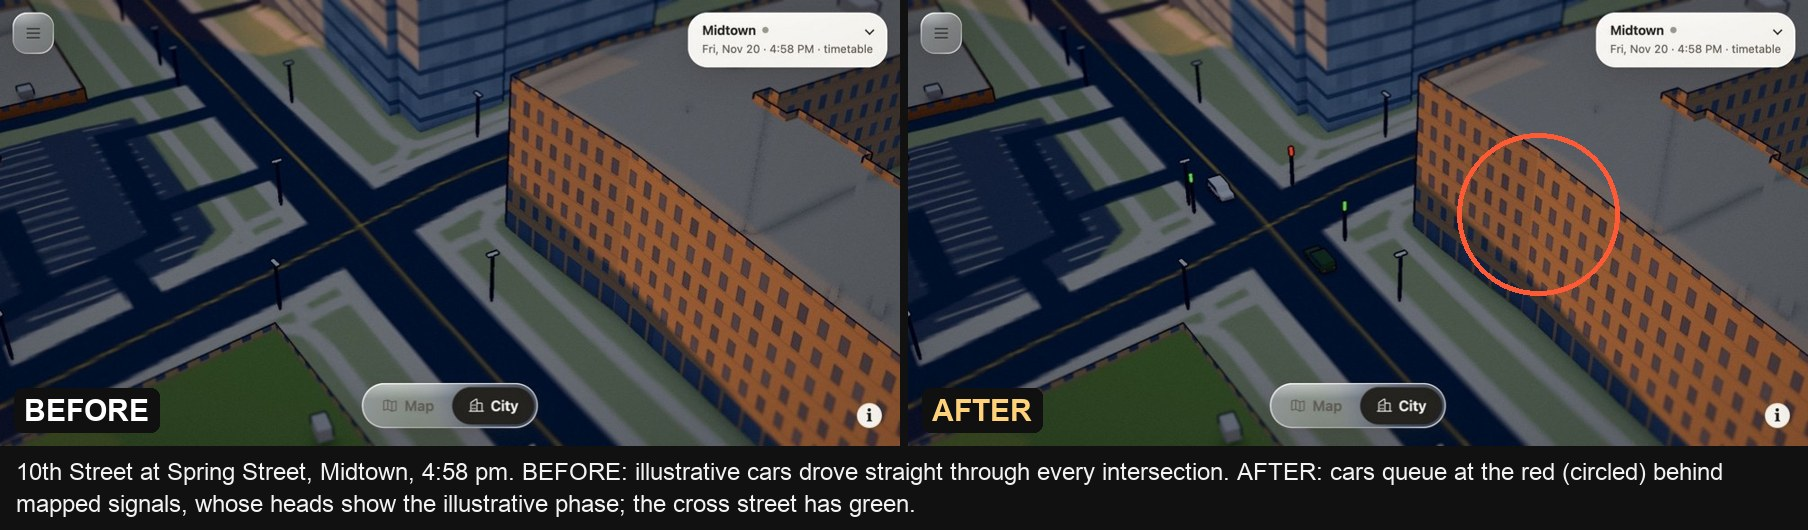
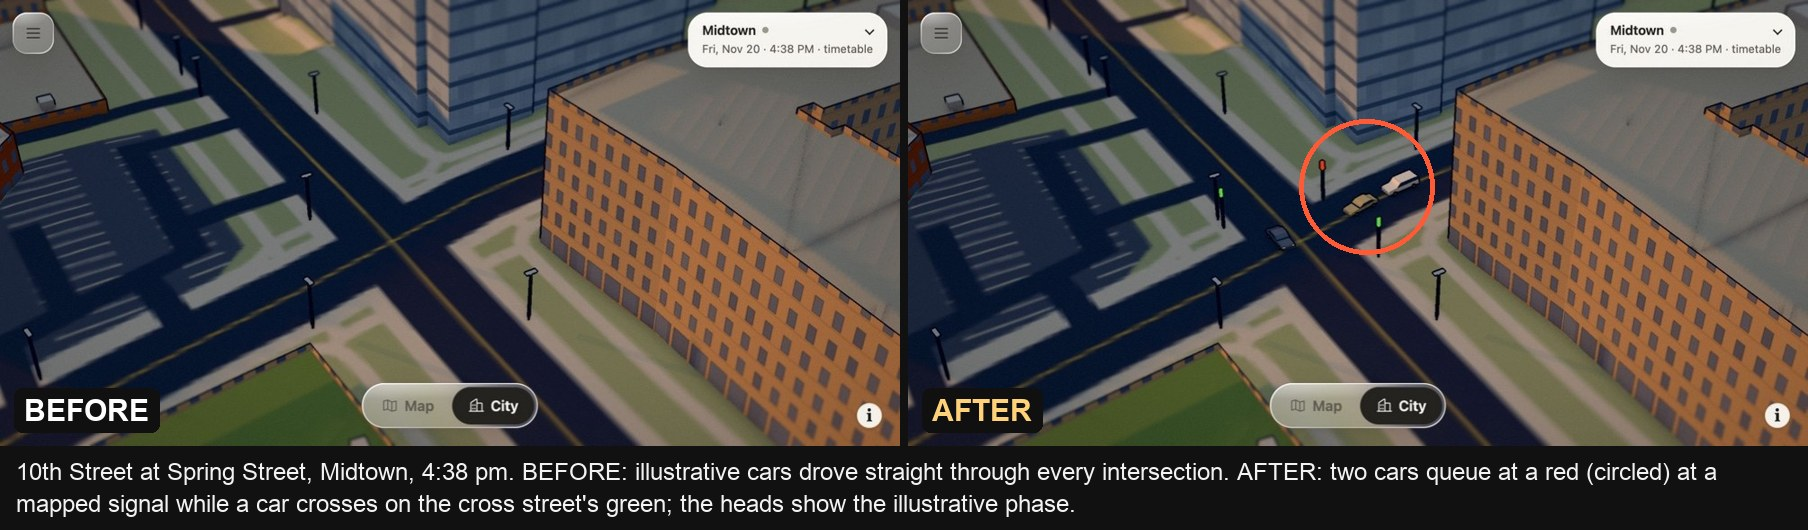
Recapture the 10th Street queue comparison

diff --git a/docs/traffic-signals.md b/docs/traffic-signals.md
@@ -17,4 +17,4 @@ Downtown's and Midtown's illustrative arterial cars now stop at mapped traffic s
 
 Turns at intersections come next; HPMS has no turning counts, so turn shares will be illustrative. Requires a web rebuild only.
 
-[10th Street queue, before and after](log/ui/traffic-signals/compare-10th-queue.jpg) · [Night and low tier](log/ui/traffic-signals/compare-night-low.jpg)
+[10th Street queue (4:38 pm), before and after](log/ui/traffic-signals/compare-10th-queue.jpg) · [Night and low tier](log/ui/traffic-signals/compare-night-low.jpg)
